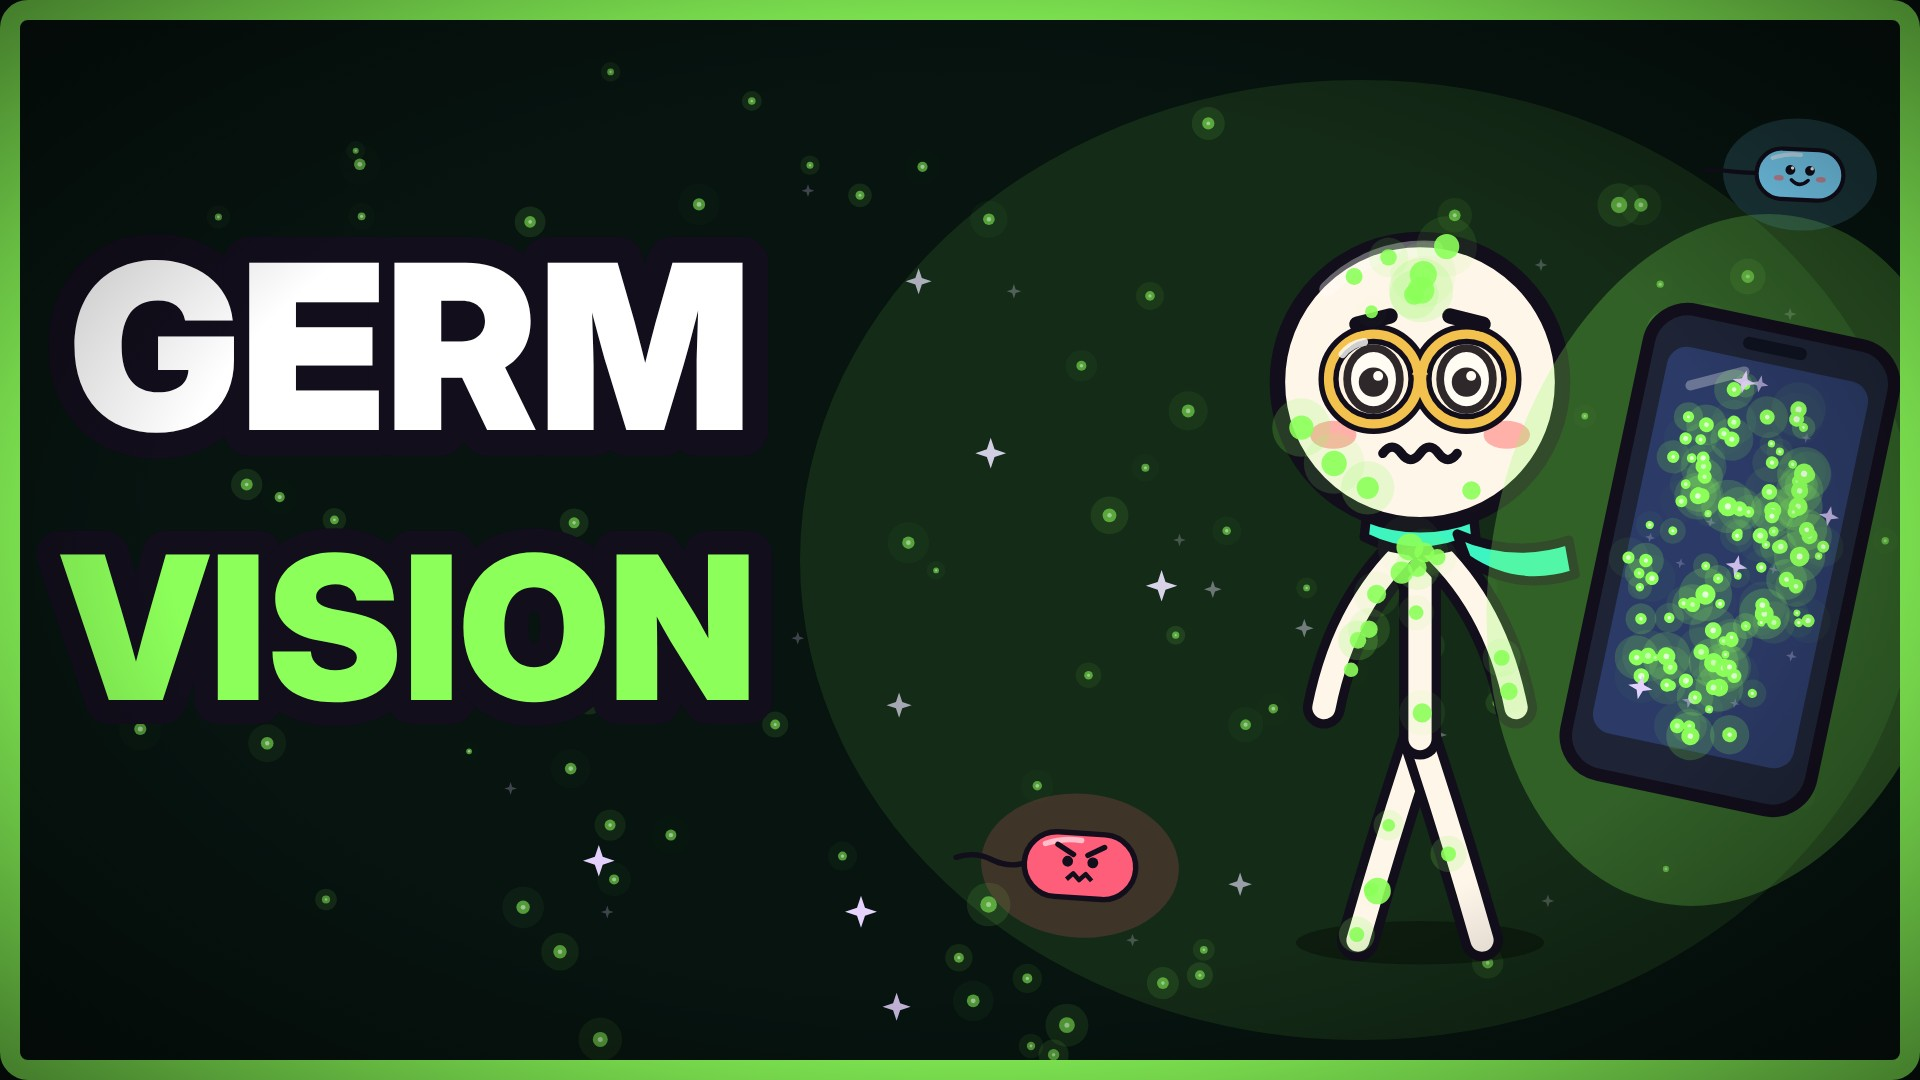
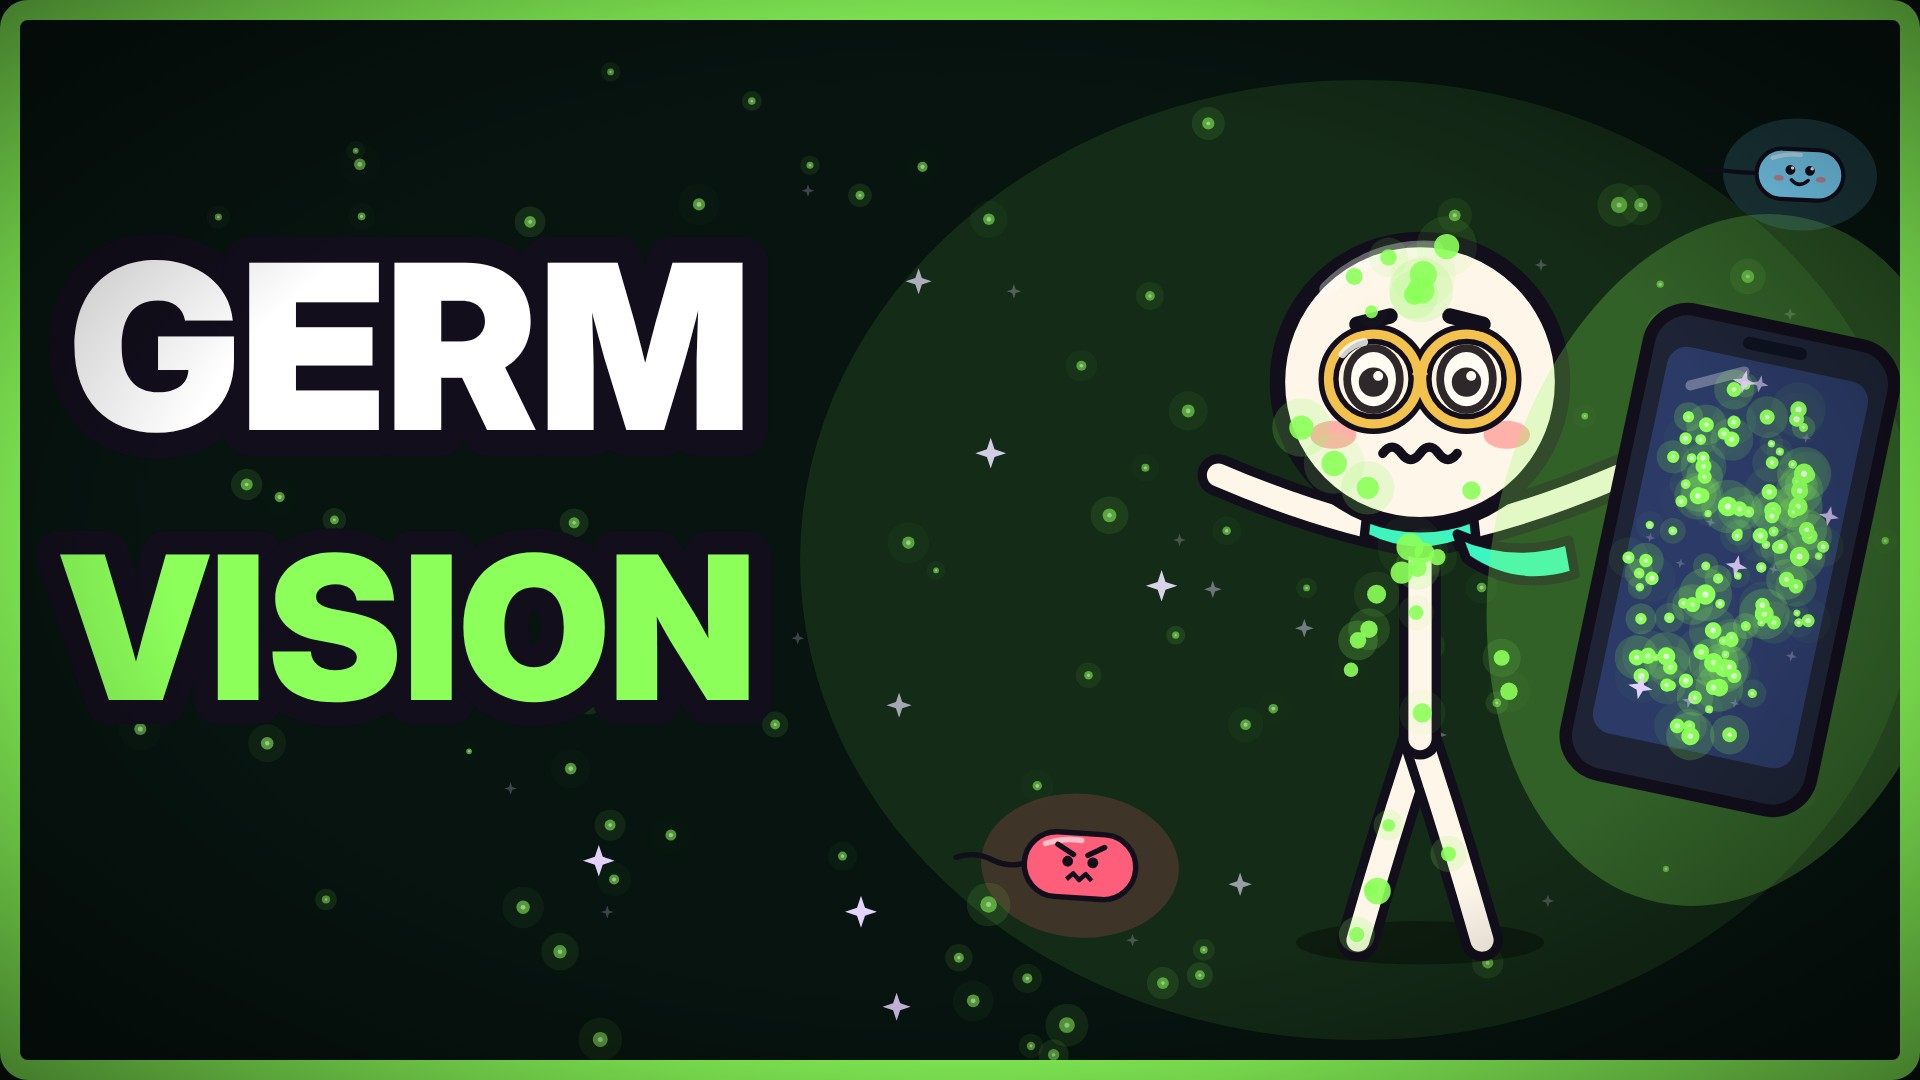
Episode 010: What If You Could See Every Germ Around You?
Claude-Session: https://claude.ai/code/session_019ai2m2MxcJnxMHWqzPuaSF

Changed region(s): [[0.625, 0.4278, 0.8438, 0.6722]]

diff --git a/episodes/010-see-germs/thumb.html b/episodes/010-see-germs/thumb.html
@@ -5,7 +5,7 @@ document.getElementById('s').innerHTML=`<svg width="1920" height="1080" viewBox=
  <rect width="1920" height="1080" fill="#071410"/>
  ${g10_dots(960,540,960,540,90,7,1.3,{r:6,op:.55})}${g10_sparks(960,540,960,540,30,8,1.3,{size:16})}
  <ellipse cx="1360" cy="560" rx="560" ry="480" fill="${th_G}" opacity=".10"/>
- <g transform="translate(1420,470) scale(1.55)">${glint({t:.3,mouth:'wavy',brows:'sad',pose:'down'})}${g10_glintDots(0,0,1,1.3,40,.9,5)}</g>
+ <g transform="translate(1420,470) scale(1.55)">${glint({t:.3,mouth:'wavy',brows:'sad',pose:'reach'})}${g10_glintDots(0,0,1,1.3,40,.9,5)}</g>
  ${g10_phone(1730,560,1.25,{g:1.3,germ:1,glow:1.6,rot:12})}
  ${g10_bug(1080,860,.9,1,{col:'#FF5E7A',mood:'mean'})}${g10_bug(1800,180,.7,2,{col:'#7CD8FF'})}
  <text x="70" y="430" font-size="230" font-weight="900" fill="${INK}" stroke="${INK}" stroke-width="52" stroke-linejoin="round">GERM</text><text x="70" y="430" font-size="230" font-weight="900" fill="#fff">GERM</text>
